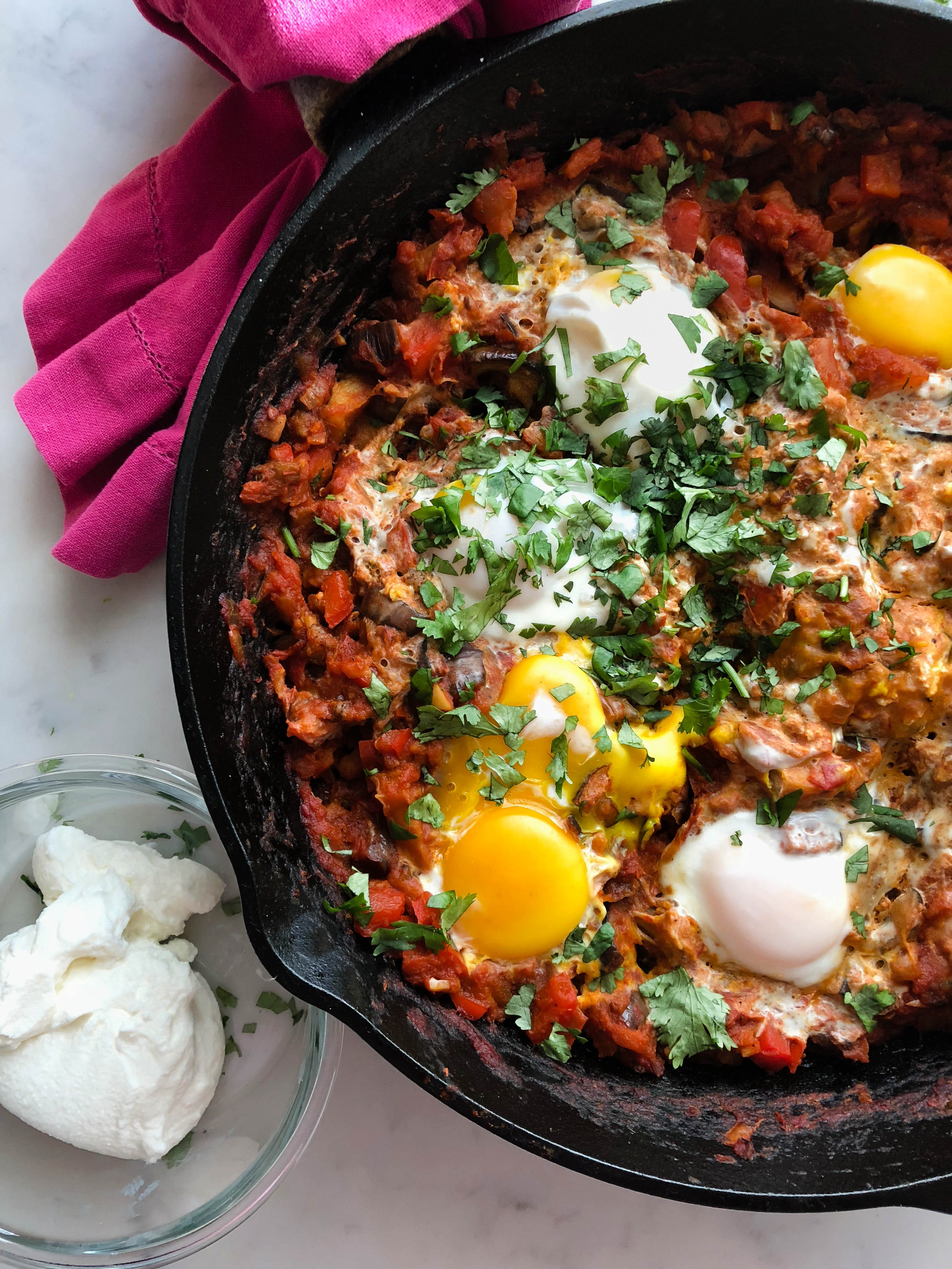
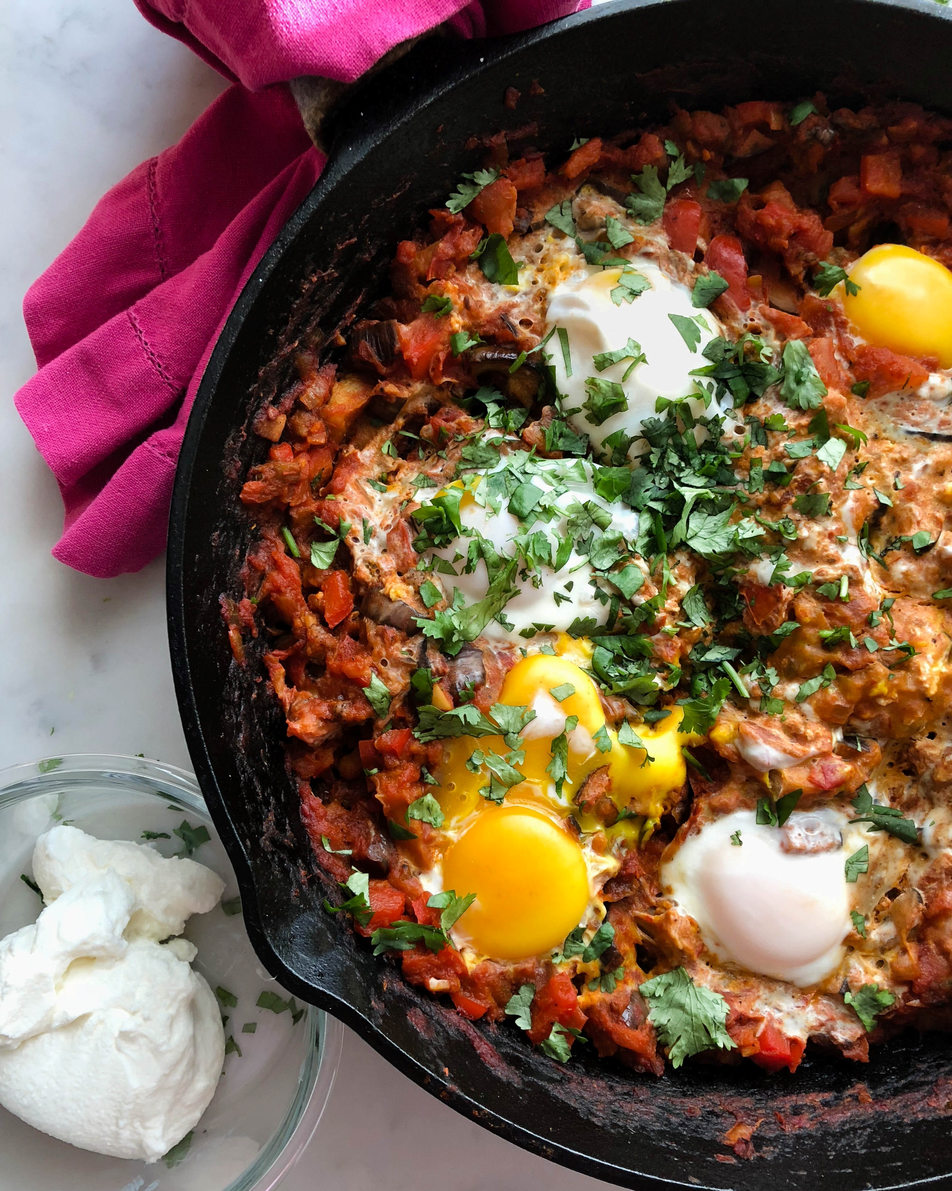
change signup page image size

diff --git a/zoodoo/client/src/pages/SignUp.js b/zoodoo/client/src/pages/SignUp.js
@@ -66,7 +66,7 @@ const SignUp = () => {
           <img
             src={signupImg}
             alt="food dish"
-            className="rounded-l-lg h-full w-full object-cover hidden lg:block"
+            className="rounded-l-lg h-full w-full object-cover object-center hidden lg:block"
           />
         </div>
 
